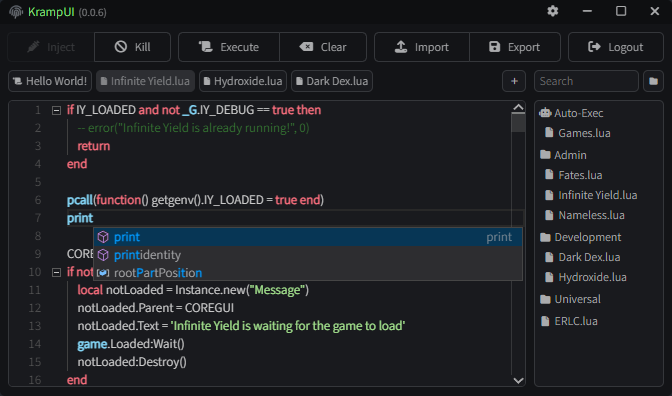
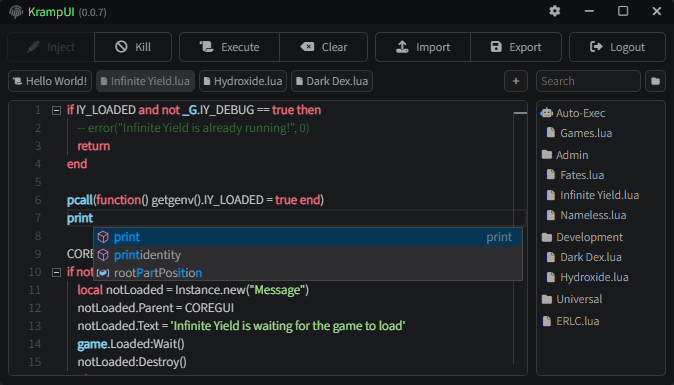
0.0.7

Changed region(s): [[0.0, 0.0623, 1.0, 0.9974], [0.0625, 0.0, 0.125, 0.0623], [0.75, 0.9351, 0.7812, 0.9662]]

diff --git a/src/index.html b/src/index.html
@@ -17,7 +17,7 @@
       <div class="brand">
         <img class="image" src="./assets/icon.png">
         <p class="text">KrampUI</p>
-        <p class="version">(0.0.6)</p>
+        <p class="version">(0.0.7)</p>
       </div>
       <div class="buttons">
         <div class="kr-dropdown left">
